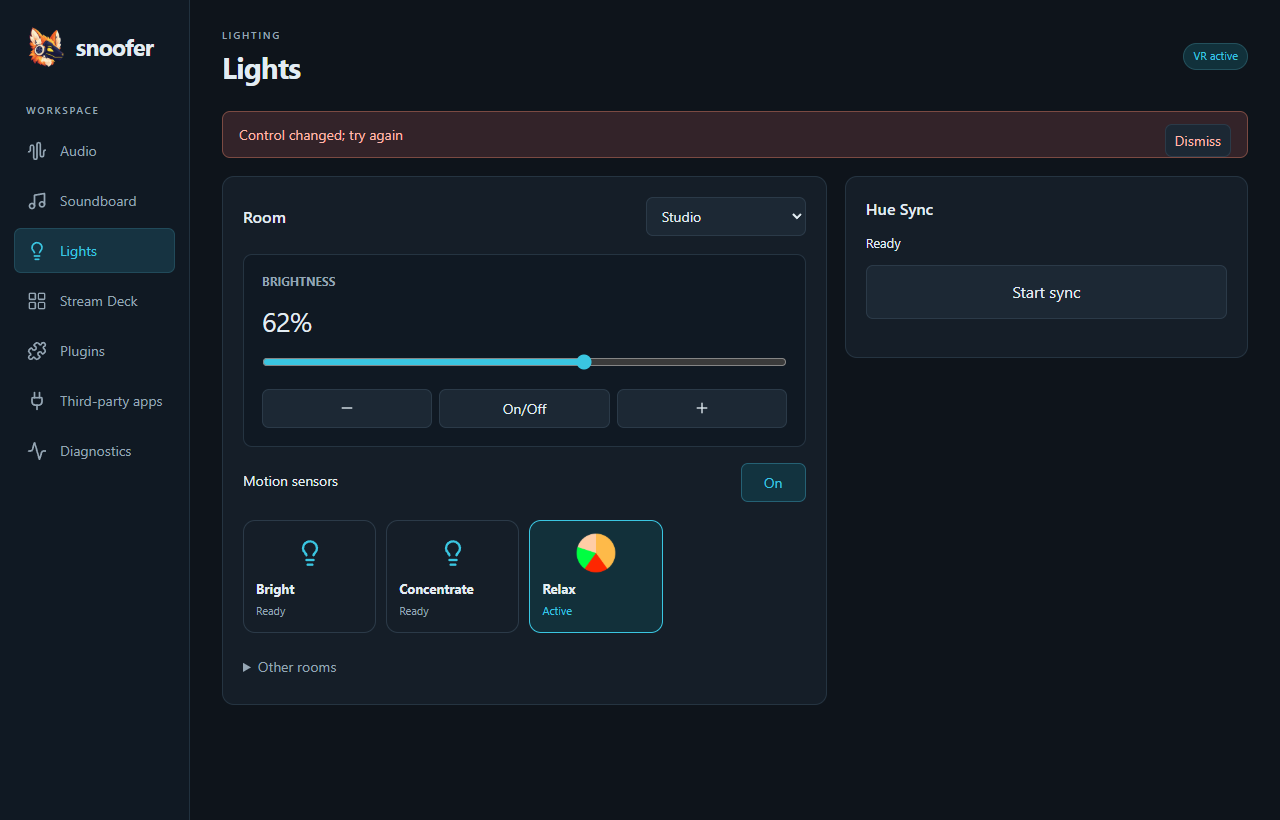
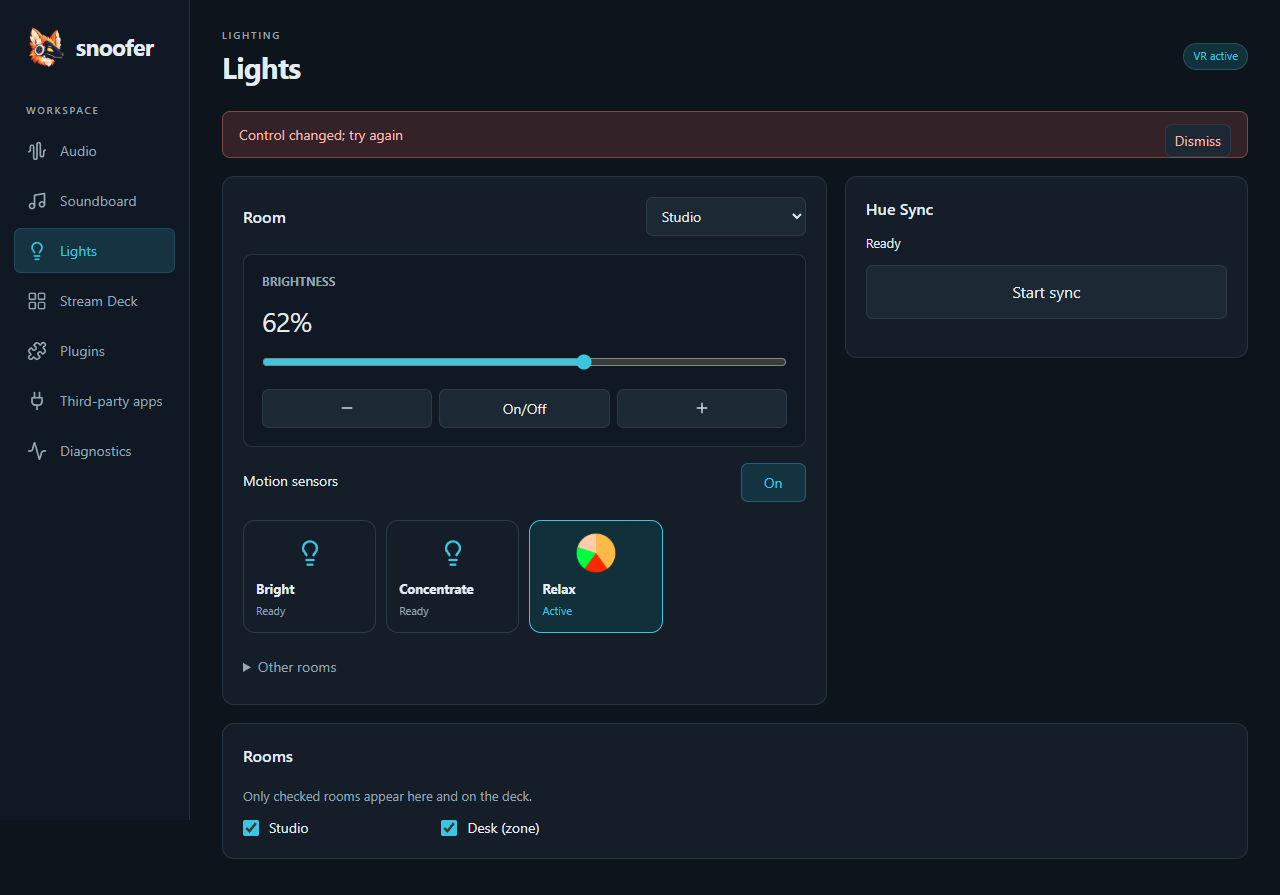
feat(hue): limit Snoofer to chosen rooms
A Rooms card on the Lights screen chooses the rooms and zones Snoofer
controls (saved as hue rooms; empty means all, and the last room stays
chosen). Only chosen groups are offered by the room picker and Room
key, and only their scenes are published; a selection outside the
choice moves to the first chosen room. The Room key is blank while only
one room is chosen. Text controls such as the room list are never deck
bindings.

diff --git a/app/web/app.js b/app/web/app.js
@@ -288,6 +288,27 @@ function sceneCard(id,parent){
   setArt(art,item.Artwork,()=>icon("lightbulb","size-7"),"size-10");
  });
 }
+// roomsCard chooses the rooms and zones Snoofer controls, here and on the deck.
+function roomsCard(parent){
+ const item=c("hue.rooms");if(!item?.ViewData?.length)return;
+ const card=panel("Rooms",parent,"col-span-full");card.dataset.part="rooms";
+ card.append(el("p","text-[13px] text-muted","Only checked rooms appear here and on the deck."));
+ const list=el("div","mt-3 grid grid-cols-[repeat(auto-fill,minmax(180px,1fr))] gap-2"),error=el("p","mt-2 text-critical");card.append(list,error);
+ const boxes=[];
+ for(const room of item.ViewData){
+  const label=el("label","flex items-center gap-2.5"),box=el("input","size-4 accent-active");box.type="checkbox";box.value=room.ID;
+  label.append(box,el("span","",room.Name+(room.Kind==="zone"?" (zone)":"")));list.append(label);boxes.push(box);
+  box.onchange=()=>request(c("hue.rooms"),"set",boxes.filter(b=>b.checked).map(b=>b.value).join(","));
+ }
+ updaters.push(()=>{
+  const current=c("hue.rooms"),chosen=new Map((current?.ViewData||[]).map(r=>[r.ID,r.Chosen]));
+  for(const b of boxes)b.checked=!!chosen.get(b.value);
+  const count=boxes.filter(b=>b.checked).length;
+  // The last chosen room stays chosen.
+  for(const b of boxes)b.disabled=!!pending||!current?.Available||(b.checked&&count===1);
+  error.textContent=current?.Status||"";error.hidden=!error.textContent;
+ });
+}
 function buildLights(){
  if(!(state.Plugins||{}).hue){empty(root,"Hue is not part of this build.");return;}
  if(!state.Enabled?.hue){
@@ -330,6 +351,7 @@ function buildLights(){
   help.textContent=status?.Value==="N/A"?"Open Hue Sync and turn on Settings → Third-party control.":status?.Value==="No bridge"?"Hue Sync has no bridge connection.":failed?item.Status:"";
   help.className=failed?"text-critical":"text-muted";help.hidden=!help.textContent;
  });
+ roomsCard(grid);
 }
 // deckRange is the GUI-local key rectangle for creating regions; selecting it
 // never dispatches anything. It resets when the edited page changes.
@@ -575,7 +597,7 @@ function buildDiagnostics(){
 function layoutKey(){
  // Values and telemetry are updated in place. Only structure/context rebuilds a screen.
  const list=[...controls.values()].map(v=>[v.ID,v.Label,v.Kind,v.Group,v.Options,v.OptionLabels]);
- return JSON.stringify([screen,list,Object.keys(state.Plugins||{}),screen==="lights"?[state.Enabled?.hue,c("hue.group")?.Value]:null,screen==="deck"?[c("streamdeck.preview")?.ViewData?.Selected,c("streamdeck.page")?.Value,c("streamdeck.profile")?.Value,c("streamdeck.shared")?.Value,c("streamdeck.preview")?.ViewData?.Regions,c("streamdeck.preview")?.ViewData?.Collections]:null]);
+ return JSON.stringify([screen,list,Object.keys(state.Plugins||{}),screen==="lights"?[state.Enabled?.hue,c("hue.group")?.Value,c("hue.rooms")?.ViewData]:null,screen==="deck"?[c("streamdeck.preview")?.ViewData?.Selected,c("streamdeck.page")?.Value,c("streamdeck.profile")?.Value,c("streamdeck.shared")?.Value,c("streamdeck.preview")?.ViewData?.Regions,c("streamdeck.preview")?.ViewData?.Collections]:null]);
 }
 function build(){
  widgets.length=0;updaters.length=0;root.replaceChildren();

diff --git a/plugins/hue/plugin.go b/plugins/hue/plugin.go
@@ -19,12 +19,13 @@ import (
 // identity, key and certificate pin; the Lights screen writes Group. Empty
 // strings mean not configured.
 type Settings struct {
-	Address           string `json:"address"`
-	BridgeID          string `json:"bridge_id"`
-	AppKey            string `json:"app_key"`
-	CertificateSHA256 string `json:"certificate_sha256"`
-	Group             string `json:"group"`
-	SyncPort          *int   `json:"sync_port,omitempty"` // Hue Sync third-party control port; nil means 24851.
+	Address           string   `json:"address"`
+	BridgeID          string   `json:"bridge_id"`
+	AppKey            string   `json:"app_key"`
+	CertificateSHA256 string   `json:"certificate_sha256"`
+	Group             string   `json:"group"`
+	Rooms             []string `json:"rooms,omitempty"`     // Rooms and zones Snoofer controls; empty means all.
+	SyncPort          *int     `json:"sync_port,omitempty"` // Hue Sync third-party control port; nil means 24851.
 }
 
 // Plugin returns inert metadata; no network activity occurs until Start.
@@ -133,6 +134,7 @@ type worker struct {
 	group     groupRequest
 	brightErr string
 	groupErr  string
+	roomsErr  string
 
 	sceneWriting string               // Scene ID with a recall request in flight.
 	scenePending map[string]time.Time // Recalled scenes awaiting an active status.
@@ -423,6 +425,7 @@ func (w *worker) observe() {
 		}
 	}
 	w.observeMotion()
+	w.enforceRoom()
 }
 
 func (w *worker) handle(ctx context.Context, r snoofer.Request) {
@@ -433,7 +436,9 @@ func (w *worker) handle(ctx context.Context, r snoofer.Request) {
 	case r.ID == "hue.pair":
 		w.startPairing(ctx)
 	case r.ID == "hue.group":
-		w.selectGroup(r.Value)
+		w.selectGroup(r.Value) // The registry accepts only published options: chosen rooms.
+	case r.ID == "hue.rooms":
+		w.setRooms(r.Value)
 	case r.ID == "hue.brightness":
 		w.adjustBrightness(r)
 	case r.ID == "hue.motion":
@@ -742,7 +747,7 @@ func (w *worker) controls() []snoofer.Control {
 	}
 	options := []string{}
 	labels := map[string]string{}
-	for _, g := range w.model.groups() {
+	for _, g := range w.chosenGroups() {
 		options = append(options, g.ID)
 		labels[g.ID] = g.Name
 		if g.Kind == "zone" {
@@ -752,7 +757,9 @@ func (w *worker) controls() []snoofer.Control {
 	controls := []snoofer.Control{
 		{ID: "hue.status", Label: "Hue", Group: "Hue", Kind: "status", Value: w.status, Status: statusNote, ViewData: w.statusView(), Available: true},
 		{ID: "hue.pair", Label: "Pair Hue bridge", ShortLabel: "Pair", Group: "Hue", Kind: "command", Icon: "hue-pair", Value: pairValue, Status: w.pairErr, Operations: []string{"press"}, Available: live},
-		{ID: "hue.group", Label: "Hue room", ShortLabel: "Room", Group: "Hue", Kind: "selection", Value: w.settings.Group, Options: options, OptionLabels: labels, Status: w.groupErr, Operations: []string{"set"}, Available: live && w.connected},
+		{ID: "hue.group", Label: "Hue room", ShortLabel: "Room", Group: "Hue", Kind: "selection", Value: w.settings.Group, Options: options, OptionLabels: labels, Status: w.groupErr, Operations: []string{"set"}, Available: live && w.connected,
+			Hidden: w.connected && len(options) < 2}, // Nothing to switch between on the deck.
+		w.roomsControl(),
 	}
 	knobNote := ""
 	switch {
@@ -782,6 +789,9 @@ func (w *worker) controls() []snoofer.Control {
 	for _, scene := range w.model.scenes() {
 		if seen[scene.ControlID] {
 			continue // A colliding ID prefix would invalidate the whole snapshot.
+		}
+		if !w.settings.chosen(scene.GroupID) {
+			continue
 		}
 		seen[scene.ControlID] = true
 		control := w.sceneControl(scene.ControlID, scene.Label, scene)

diff --git a/plugins/hue/rooms_test.go b/plugins/hue/rooms_test.go
@@ -1,0 +1,66 @@
+package hue
+
+import (
+	"encoding/json"
+	"slices"
+	"testing"
+
+	"sound-snoofer/snoofer"
+)
+
+func (h *harness) savedSettings() Settings {
+	h.mu.Lock()
+	defer h.mu.Unlock()
+	return h.saved
+}
+
+func TestRoomScope(t *testing.T) {
+	bridge := newFakeBridge(t, "b1", studio()...)
+	h := startHarness(t, bridge, paired(bridge, "room-1"), true)
+
+	// No choice yet: every group is controlled and the Room key can switch.
+	group := h.waitControl("hue.group", func(c snoofer.Control) bool { return len(c.Options) == 2 })
+	if group.Hidden {
+		t.Fatal("room key hidden with two rooms")
+	}
+	rooms := h.waitControl("hue.rooms", func(c snoofer.Control) bool { return c.Available })
+	var choices []roomChoice
+	if err := json.Unmarshal(rooms.ViewData, &choices); err != nil || len(choices) != 2 || !choices[0].Chosen || !choices[1].Chosen {
+		t.Fatalf("choices %s %v", rooms.ViewData, err)
+	}
+
+	// Choosing only the zone moves the selection there and hides the rest.
+	h.mustDispatch("hue.rooms", "set", 0, "zone-1, unknown")
+	group = h.waitControl("hue.group", func(c snoofer.Control) bool { return c.Value == "zone-1" })
+	if !slices.Equal(group.Options, []string{"zone-1"}) || !group.Hidden || group.OptionLabels["zone-1"] != "Desk (zone)" {
+		t.Fatalf("restricted group %+v", group)
+	}
+	if saved := h.savedSettings(); !slices.Equal(saved.Rooms, []string{"zone-1"}) || saved.Group != "zone-1" {
+		t.Fatalf("saved %+v", saved)
+	}
+	h.waitControl("hue.scene-desk-8b7e0d21", func(c snoofer.Control) bool { return c.Available })
+	if _, ok := h.find("hue.scene-studio-3f2a9c10"); ok {
+		t.Fatal("scene of an unchosen room published")
+	}
+
+	// The last room stays chosen, and unchosen rooms cannot be selected.
+	h.mustDispatch("hue.rooms", "set", 0, "")
+	h.waitControl("hue.rooms", func(c snoofer.Control) bool { return c.Status == "Choose at least one room" })
+	if err := h.dispatch("hue.group", "set", 0, "room-1"); err == nil {
+		t.Fatal("unchosen room selected")
+	}
+	if saved := h.savedSettings(); !slices.Equal(saved.Rooms, []string{"zone-1"}) {
+		t.Fatalf("rejected edits changed settings %+v", saved)
+	}
+}
+
+func TestRoomScopeMovesStaleSelection(t *testing.T) {
+	bridge := newFakeBridge(t, "b1", studio()...)
+	settings := paired(bridge, "zone-1")
+	settings.Rooms = []string{"room-1"}
+	h := startHarness(t, bridge, settings, true)
+	h.waitControl("hue.group", func(c snoofer.Control) bool { return c.Value == "room-1" })
+	if saved := h.savedSettings(); saved.Group != "room-1" {
+		t.Fatalf("selection not saved %+v", saved)
+	}
+}

diff --git a/plugins/hue/rooms.go b/plugins/hue/rooms.go
@@ -1,0 +1,83 @@
+package hue
+
+import (
+	"encoding/json"
+	"slices"
+	"strings"
+
+	"sound-snoofer/snoofer"
+)
+
+// chosen reports whether Snoofer controls a room or zone. An empty list
+// means no choice has been made, so every group is controlled.
+func (s Settings) chosen(groupID string) bool {
+	return len(s.Rooms) == 0 || slices.Contains(s.Rooms, groupID)
+}
+
+// chosenGroups lists the existing groups Snoofer controls, by name.
+func (w *worker) chosenGroups() []groupInfo {
+	var out []groupInfo
+	for _, g := range w.model.groups() {
+		if w.settings.chosen(g.ID) {
+			out = append(out, g)
+		}
+	}
+	return out
+}
+
+// enforceRoom moves the selection to the first chosen group when the selected
+// group is not chosen. It needs bridge data, so it only acts while connected.
+func (w *worker) enforceRoom() {
+	if !w.connected || len(w.settings.Rooms) == 0 || slices.Contains(w.settings.Rooms, w.settings.Group) {
+		return
+	}
+	if groups := w.chosenGroups(); len(groups) > 0 {
+		w.selectGroup(groups[0].ID)
+	}
+}
+
+// setRooms saves the comma-separated list of chosen groups. At least one
+// existing group must stay chosen.
+func (w *worker) setRooms(value string) {
+	known := map[string]bool{}
+	for _, g := range w.model.groups() {
+		known[g.ID] = true
+	}
+	var rooms []string
+	for _, id := range strings.Split(value, ",") {
+		id = strings.TrimSpace(id)
+		if known[id] && !slices.Contains(rooms, id) {
+			rooms = append(rooms, id)
+		}
+	}
+	if len(rooms) == 0 {
+		w.roomsErr = "Choose at least one room"
+		return
+	}
+	next := w.settings
+	next.Rooms = rooms
+	if err := w.save(next); err != nil {
+		w.roomsErr = err.Error()
+		return
+	}
+	w.roomsErr = ""
+	w.enforceRoom()
+}
+
+// roomChoice is one row of the Lights screen's Rooms card.
+type roomChoice struct {
+	ID, Name, Kind string
+	Chosen         bool
+}
+
+// roomsControl edits the chosen groups. It is a text control so the deck never
+// offers it as a binding.
+func (w *worker) roomsControl() snoofer.Control {
+	var choices []roomChoice
+	for _, g := range w.model.groups() {
+		choices = append(choices, roomChoice{ID: g.ID, Name: g.Name, Kind: g.Kind, Chosen: w.settings.chosen(g.ID)})
+	}
+	view, _ := json.Marshal(choices) // Plain string and bool fields always marshal.
+	return snoofer.Control{ID: "hue.rooms", Label: "Hue rooms", Group: "Hue", Kind: "text", Value: strings.Join(w.settings.Rooms, ","),
+		Status: w.roomsErr, ViewData: view, Operations: []string{"set"}, Available: w.services.Live && w.connected}
+}

diff --git a/plugins/streamdeck/regions_test.go b/plugins/streamdeck/regions_test.go
@@ -146,6 +146,15 @@ func TestEditorViewRegions(t *testing.T) {
 	}
 }
 
+func TestTextControlsHaveNoDeckPosition(t *testing.T) {
+	l := Layout{Home: "a", Pages: []Page{{ID: "a", Name: "A"}}}
+	l.Pages[0].Keys[0] = Binding{Control: "hue.rooms"}
+	rooms := snoofer.Control{ID: "hue.rooms", Label: "Hue rooms", Kind: "text", Operations: []string{"set"}}
+	if err := l.Validate([]snoofer.Control{rooms}); err == nil || !strings.Contains(err.Error(), "text entry") {
+		t.Fatal(err)
+	}
+}
+
 func TestEditRegion(t *testing.T) {
 	l := Layout{Home: "s", Pages: []Page{{ID: "s", Name: "S", AutoControls: "soundboard.clip-"}}}
 	l.Pages[0].Keys[35] = Binding{Control: "soundboard.stop"}

diff --git a/plugins/streamdeck/plugin_windows.go b/plugins/streamdeck/plugin_windows.go
@@ -175,6 +175,9 @@ func startWithSurface(ctx context.Context, s snoofer.Services, raw json.RawMessa
 				if strings.HasPrefix(c.ID, "streamdeck.") && !strings.HasPrefix(c.ID, gotoPrefix) {
 					continue
 				}
+				if c.Kind == "text" {
+					continue // Text entry has no deck position.
+				}
 				if (slot < Keys && (slices.Contains(c.Operations, "press") || slices.Contains(c.Operations, "set"))) || (slot >= Keys && slices.Contains(c.Operations, "adjust")) {
 					ids = append(ids, c.ID)
 				}

diff --git a/plugins/streamdeck/layout.go b/plugins/streamdeck/layout.go
@@ -118,6 +118,9 @@ func (l Layout) Validate(controls []snoofer.Control) error {
 		}
 		for _, c := range controls {
 			if c.ID == b.Control {
+				if c.Kind == "text" {
+					return fmt.Errorf("%s needs text entry and has no deck position", c.Label)
+				}
 				op := "press"
 				if dial {
 					op = "adjust"

diff --git a/openspec/changes/deck-regions-lights-page/tasks.md b/openspec/changes/deck-regions-lights-page/tasks.md
@@ -45,7 +45,7 @@ Each numbered block is one reviewable commit.
 - [x] 10. `docs(deck)`: revise the design: room scope, option labels on keys, and go-to keys on Home only. Update the contract.
 - [x] 11. `fix(streamdeck)`: show option labels on selection keys. Includes a test.
 - [x] 12. `refactor(streamdeck)`: no go-to key for the Home page; drop Home keys from the default content pages. Includes tests.
-- [ ] 13. `feat(hue)`: limit Snoofer to chosen rooms. Covers:
+- [x] 13. `feat(hue)`: limit Snoofer to chosen rooms. Covers:
   - the `rooms` setting and the `hue.rooms` control;
   - filtered group options, scenes and fallback selection;
   - the Room key blank with one room;
